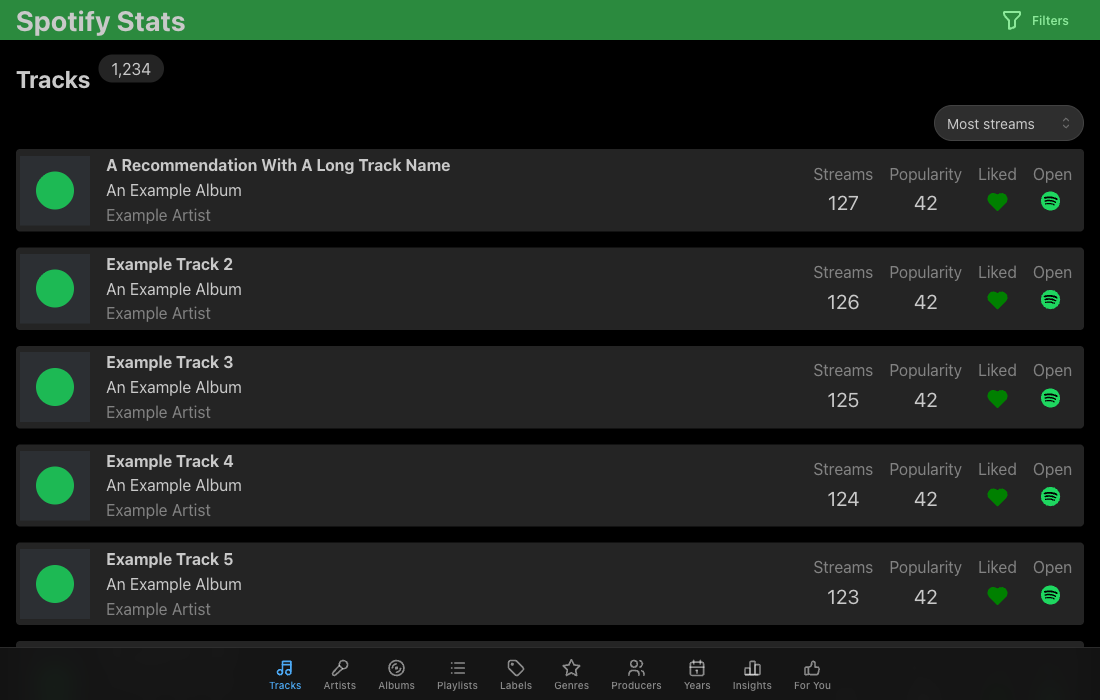
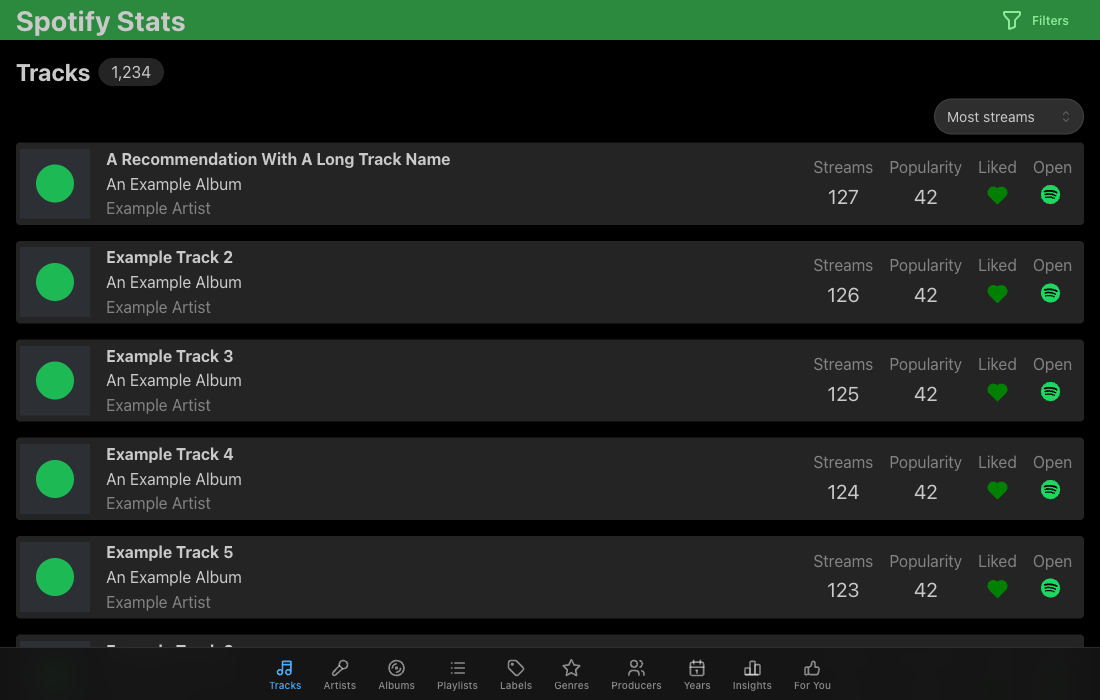
Refine heading and mobile KPI spacing
Copilot-Session: 15095951-b356-4c12-ae8e-066308e09f93

Changed region(s): [[0.0, 0.12, 0.9891, 0.93], [0.0, 0.06, 0.1545, 0.15]]

diff --git a/client/src/design/KPI.tsx b/client/src/design/KPI.tsx
@@ -1,10 +1,12 @@
 import { Skeleton, Text } from "@mantine/core";
+import clsx from "clsx";
 
 import styles from "./KPI.module.css";
 
 export interface KPIProps {
   label: string;
   value: number | string | JSX.Element;
+  compactOnMobile?: boolean;
 }
 
 export function KPIsList({ items }: { items: KPIProps[] }) {
@@ -30,14 +32,14 @@ export function KPIsListSkeleton({ count = 4 }: { count?: number }) {
   );
 }
 
-export function KPI({ label, value }: KPIProps) {
+export function KPI({ label, value, compactOnMobile }: KPIProps) {
   return (
-    <div className={styles.kpi}>
-      <Text c="dimmed" className={styles.noWrap}>
+    <div className={clsx(styles.kpi, compactOnMobile && styles.compactOnMobile)}>
+      <Text c="dimmed" className={clsx(styles.noWrap, styles.label)}>
         {label}
       </Text>
       {typeof value === "string" || typeof value === "number" ? (
-        <Text size={"xl"} className={styles.noWrap}>
+        <Text size="xl" className={clsx(styles.noWrap, styles.value)}>
           {value}
         </Text>
       ) : (

diff --git a/client/src/sections/RecommendationsSection.tsx b/client/src/sections/RecommendationsSection.tsx
@@ -45,12 +45,14 @@ export function RecommendationsSection() {
               {
                 label: "Streams",
                 value: t.track_stream_count ?? 0,
+                compactOnMobile: true,
               },
               {
                 label: "Last Played",
                 value: t.track_last_played_at
                   ? formatDate(new Date(t.track_last_played_at))
                   : "Never",
+                compactOnMobile: true,
               },
             ]}
           />

diff --git a/client/src/design/RowDesign.module.css b/client/src/design/RowDesign.module.css
@@ -73,20 +73,21 @@
 
 @media (max-width: 48em) {
   .row {
-    gap: 8px;
+    gap: 4px;
+    padding: 2px;
   }
 
   .rowContent {
-    gap: 8px;
+    gap: 6px;
     min-width: 0;
   }
 
   .rowImage {
-    height: 56px;
+    height: 52px;
   }
 
   .rowStats {
-    gap: 8px;
-    padding-right: 4px;
+    gap: 4px;
+    padding-right: 2px;
   }
 }

diff --git a/client/src/design/KPI.module.css b/client/src/design/KPI.module.css
@@ -14,3 +14,13 @@
 .noWrap {
   text-wrap: nowrap;
 }
+
+@media (max-width: 48em) {
+  .compactOnMobile .label {
+    font-size: var(--mantine-font-size-xs);
+  }
+
+  .compactOnMobile .value {
+    font-size: var(--mantine-font-size-md);
+  }
+}

diff --git a/client/src/sections/Sections.module.css b/client/src/sections/Sections.module.css
@@ -6,11 +6,11 @@
   display: flex;
   align-items: center;
   gap: 8px;
-  margin-bottom: 0.25em;
+  margin: 0.83em 0 0.25em;
 }
 
 .sectionHeading h2 {
-  margin-bottom: 0;
+  margin: 0;
 }
 
 .recommendationCard {
